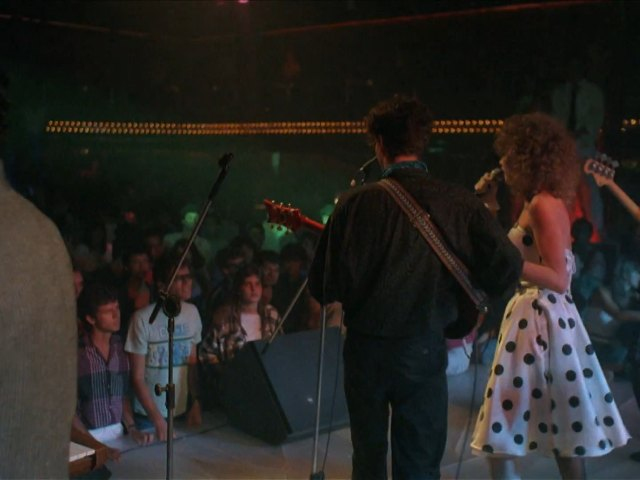
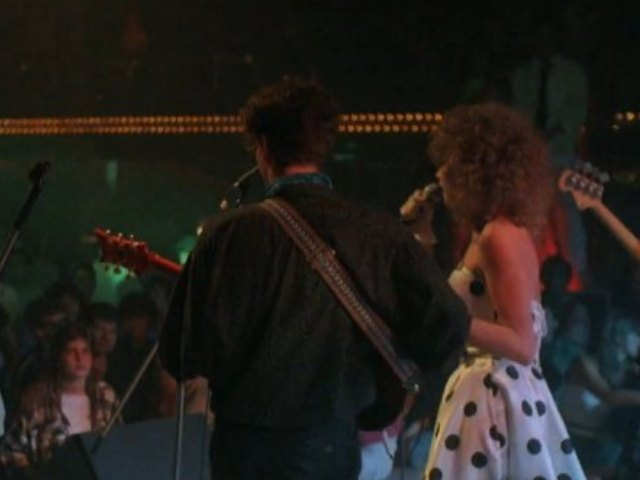
Ambário: editar vídeo: Metrô — Stabilo
Feito pela área do curador (#admin).

diff --git a/data/acervo.js b/data/acervo.js
@@ -16,7 +16,7 @@
  */
 window.AMB_DATA = {
   "updated": "2026-11-17",
-  "rev": 71,
+  "rev": 72,
   "sources": {
     "wp-metro": {
       "t": "Metrô (band) — Wikipédia em inglês",
@@ -1192,7 +1192,7 @@ window.AMB_DATA = {
       "date": "1985",
       "program": "Rock Estrela",
       "status": "no-acervo",
-      "capa": "media/capas/metro-stabilo-rock-estrela-1986.jpg?v=mwi49ysq",
+      "capa": "media/capas/metro-stabilo-rock-estrela-1986.jpg?v=mwk57jo8",
       "aspect": "16:9",
       "duration": 54,
       "file": {
